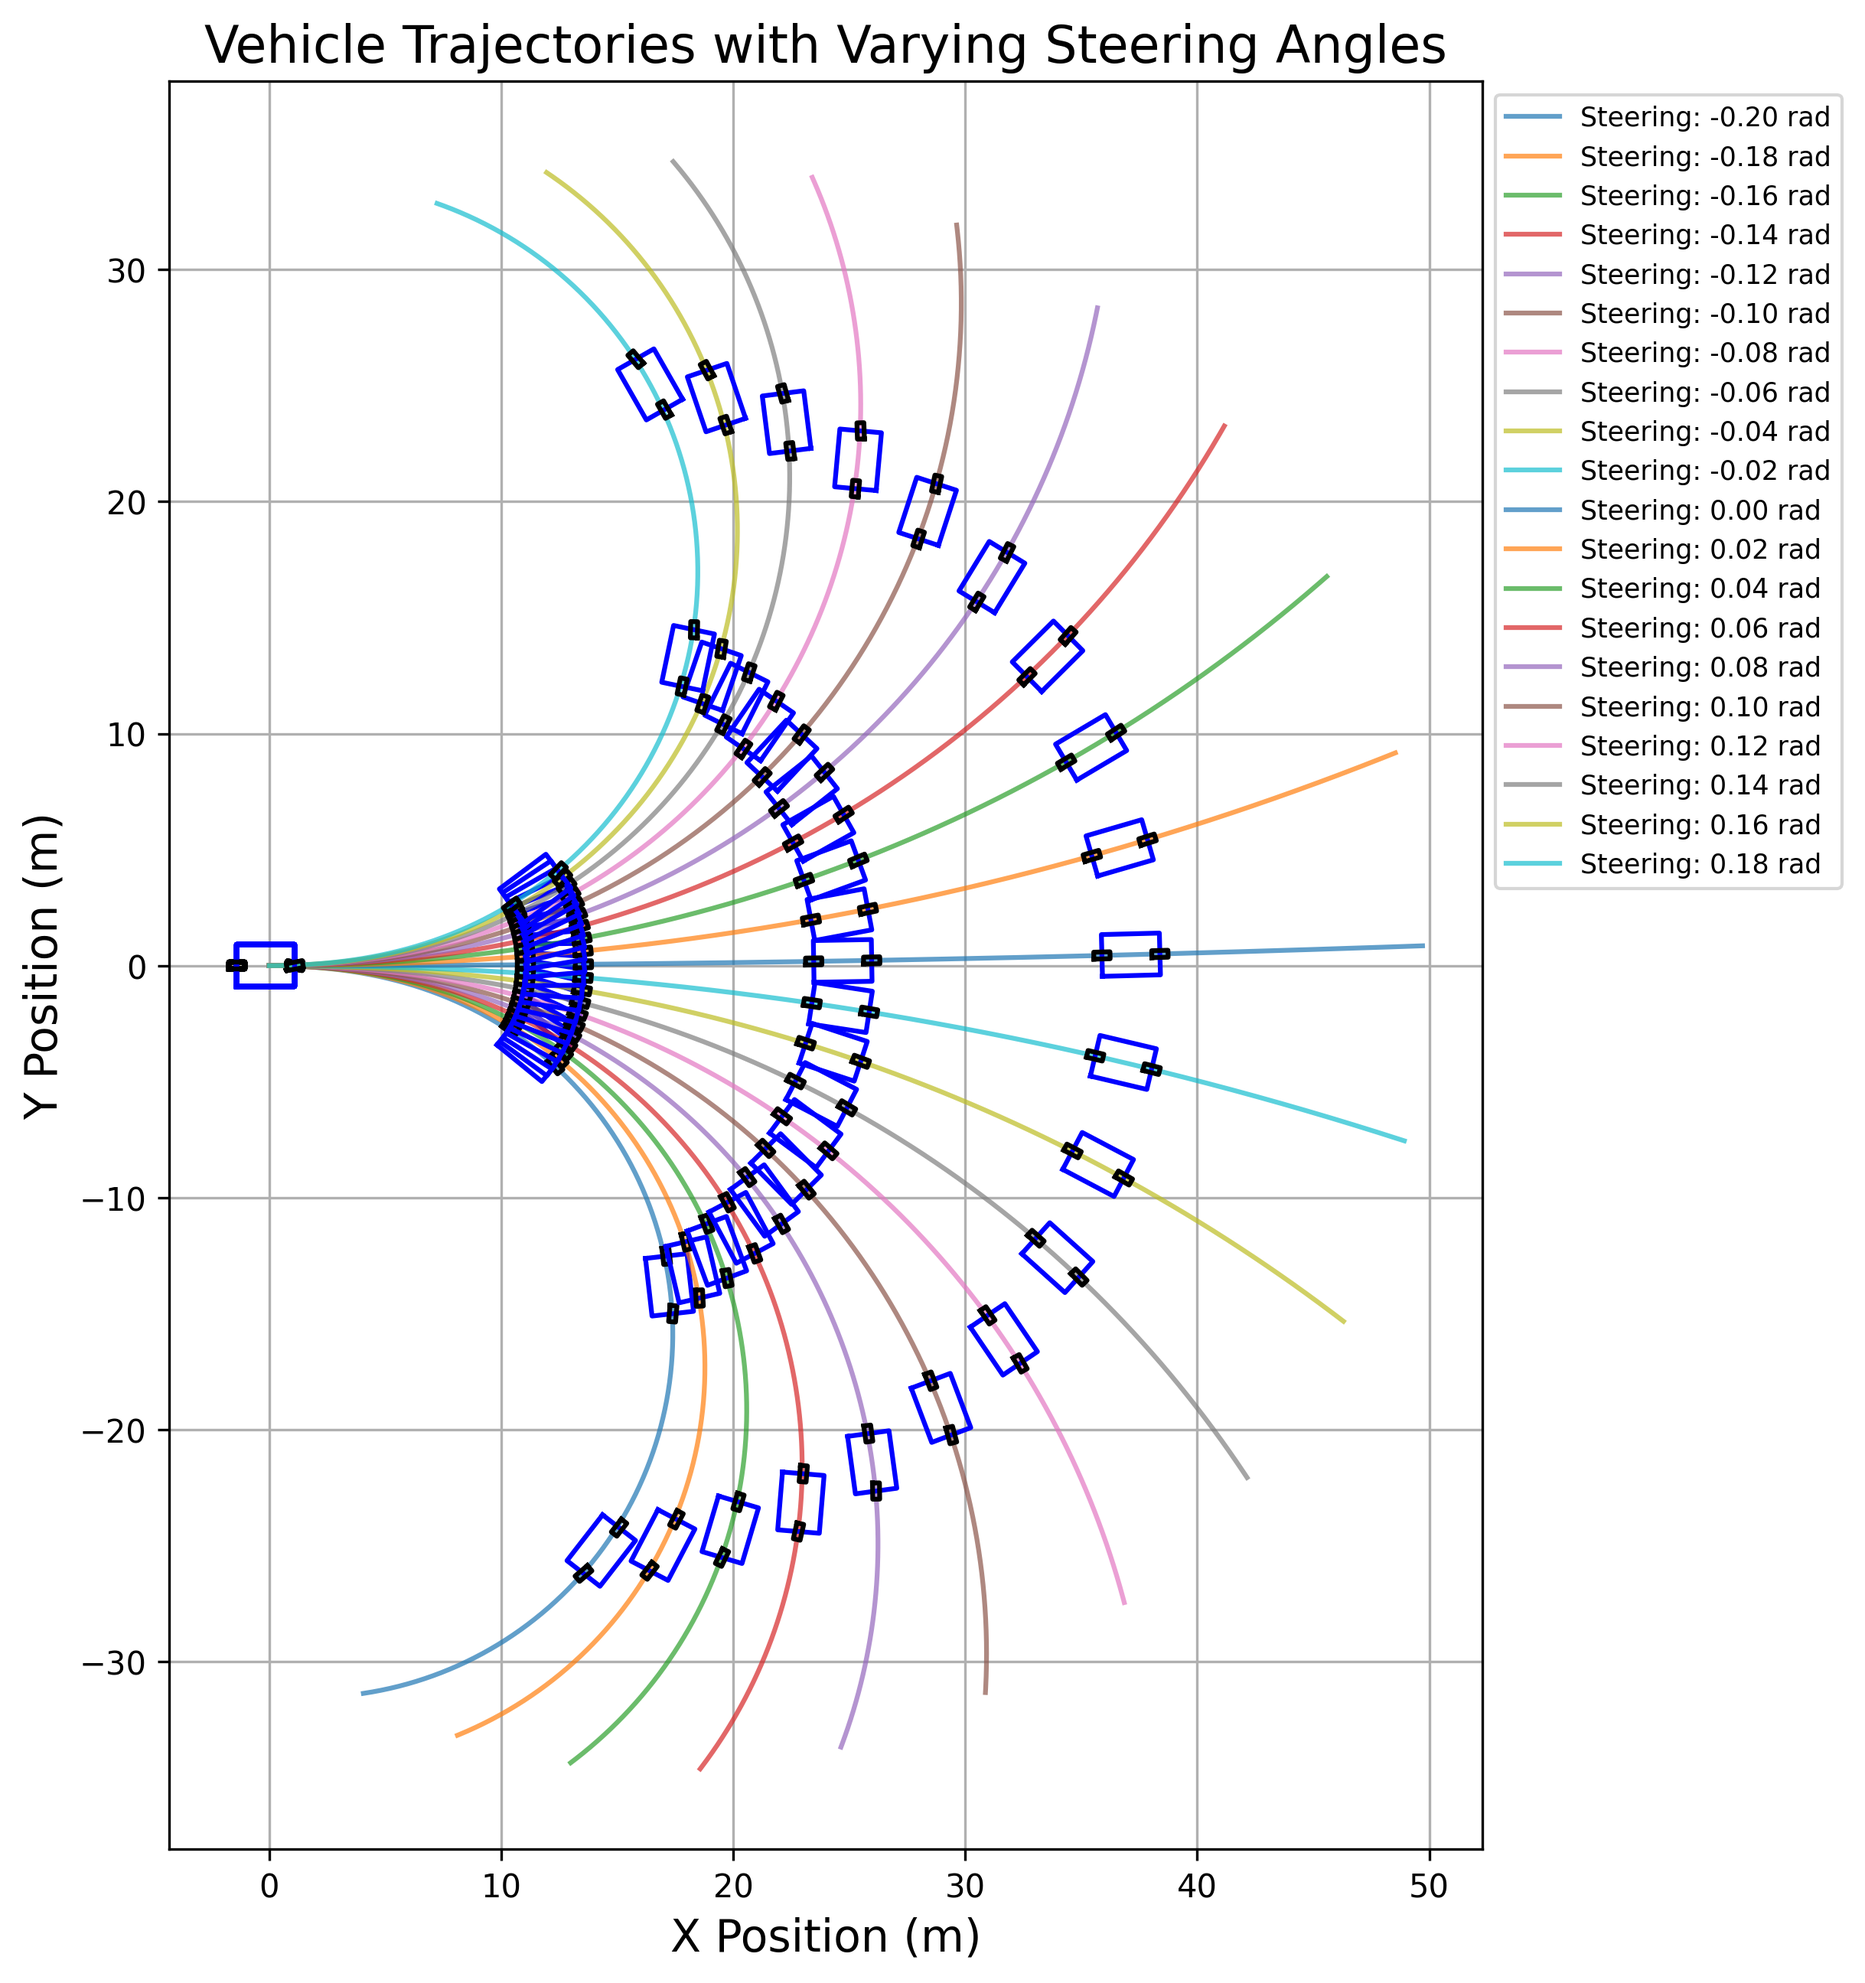
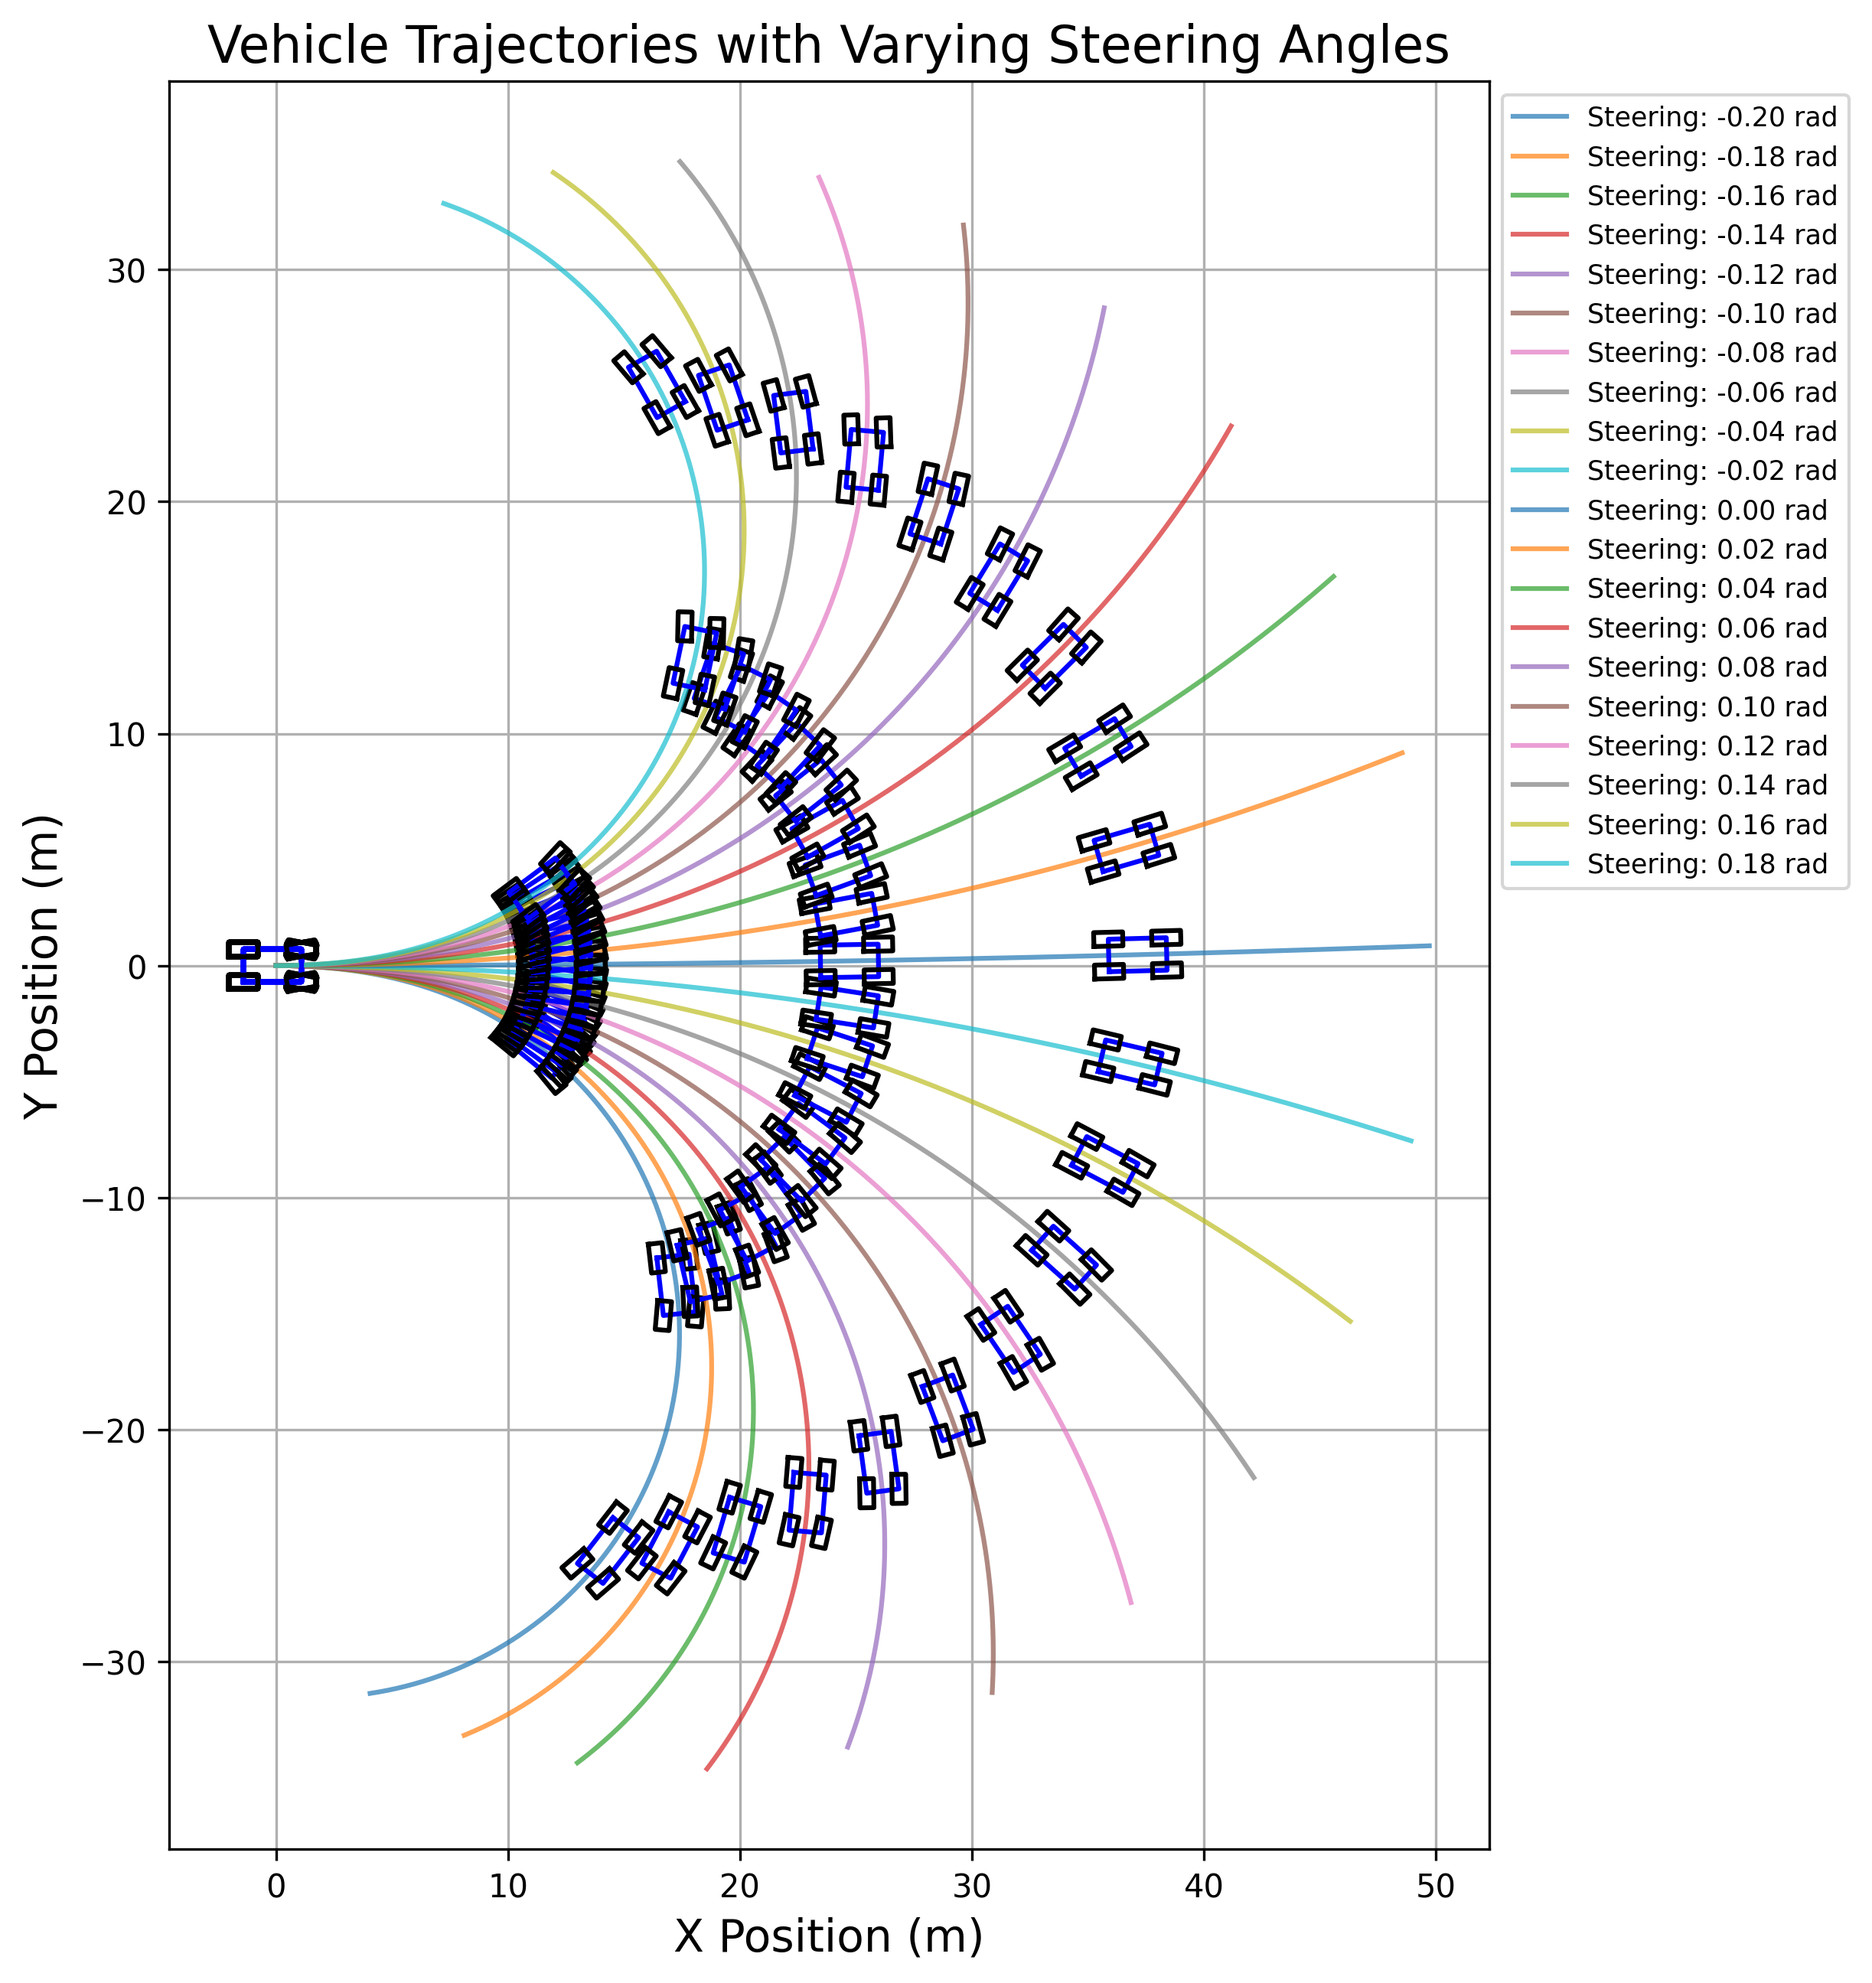
Update vehicle visualization to show 4 wheels instead of 3 rectangles

diff --git a/slipjax/examples/trajectory_plots.py b/slipjax/examples/trajectory_plots.py
@@ -90,23 +90,24 @@ all_trajectories = batch_simulator(base_state, steering_angles)
 # Create directory for saving the plot if it doesn't exist
 os.makedirs('examples', exist_ok=True)
 
-# Function to draw the vehicle as three rectangles
+# Function to draw the vehicle as a body with 4 wheels
 def draw_vehicle(ax, x, y, yaw, steering_angle, vehicle_params, color='blue'):
-    """Draw the vehicle as three rectangles: main body, front tire, and rear tire.
+    """Draw the vehicle as a body rectangle with 4 wheels at each corner.
     
     Args:
         ax: Matplotlib axis to draw on
         x, y: Position of the vehicle center in global coordinates
         yaw: Yaw angle of the vehicle
-        steering_angle: Steering angle of the front tire
+        steering_angle: Steering angle of the front wheels
         vehicle_params: Vehicle parameters including dimensions
         color: Color of the vehicle outline
     """
     # Vehicle dimensions
-    body_length = vehicle_params.front_axle_distance + vehicle_params.rear_axle_distance + 0.5  # Add buffer
-    body_width = 1.8  # Typical car width
-    tire_length = 0.7  # Tire length
-    tire_width = 0.3   # Tire width
+    body_length = vehicle_params.front_axle_distance + vehicle_params.rear_axle_distance  # No buffer
+    body_width = 1.4  # Narrower car width
+    wheel_length = 1.25  # Larger wheel length
+    wheel_width = 0.6  # Larger wheel width
+    track_width = 1.4  # Slightly wider track for wheel positioning
     
     # Calculate coordinates for the vehicle body rectangle in local frame
     body_points = np.array([
@@ -117,17 +118,14 @@ def draw_vehicle(ax, x, y, yaw, steering_angle, vehicle_params, color='blue'):
         [-vehicle_params.rear_axle_distance, -body_width/2]   # back to first point to close the shape
     ])
     
-    # Calculate coordinates for the front tire in local frame
-    front_tire_points = np.array([
-        [-tire_length/2, -tire_width/2],
-        [-tire_length/2, tire_width/2],
-        [tire_length/2, tire_width/2],
-        [tire_length/2, -tire_width/2],
-        [-tire_length/2, -tire_width/2]
+    # Calculate coordinates for a single wheel in local frame
+    wheel_points = np.array([
+        [-wheel_length/2, -wheel_width/2],
+        [-wheel_length/2, wheel_width/2],
+        [wheel_length/2, wheel_width/2],
+        [wheel_length/2, -wheel_width/2],
+        [-wheel_length/2, -wheel_width/2]
     ])
-    
-    # Calculate coordinates for the rear tire in local frame (same dimensions as front)
-    rear_tire_points = front_tire_points.copy()
     
     # Transformation matrix for the vehicle body
     cos_yaw = np.cos(yaw)
@@ -142,43 +140,47 @@ def draw_vehicle(ax, x, y, yaw, steering_angle, vehicle_params, color='blue'):
         # Translate
         transformed_body_points[i] = [x + rotated_x, y + rotated_y]
     
-    # Position of front and rear axles in global coordinates
-    front_axle_x = x + vehicle_params.front_axle_distance * cos_yaw
-    front_axle_y = y + vehicle_params.front_axle_distance * sin_yaw
-    rear_axle_x = x - vehicle_params.rear_axle_distance * cos_yaw
-    rear_axle_y = y - vehicle_params.rear_axle_distance * sin_yaw
+    # Calculate wheel positions in local vehicle coordinates
+    wheel_positions = [
+        # Front left wheel
+        [vehicle_params.front_axle_distance, -track_width/2],
+        # Front right wheel
+        [vehicle_params.front_axle_distance, track_width/2],
+        # Rear left wheel
+        [-vehicle_params.rear_axle_distance, -track_width/2],
+        # Rear right wheel
+        [-vehicle_params.rear_axle_distance, track_width/2]
+    ]
     
-    # Transformation for the front tire (includes steering angle)
-    front_angle = yaw + steering_angle
-    cos_front = np.cos(front_angle)
-    sin_front = np.sin(front_angle)
-    
-    # Transform front tire points to global frame
-    transformed_front_tire_points = np.zeros_like(front_tire_points)
-    for i, point in enumerate(front_tire_points):
-        # Rotate
-        rotated_x = point[0] * cos_front - point[1] * sin_front
-        rotated_y = point[0] * sin_front + point[1] * cos_front
-        # Translate
-        transformed_front_tire_points[i] = [front_axle_x + rotated_x, front_axle_y + rotated_y]
-    
-    # Transformation for the rear tire
-    cos_rear = cos_yaw
-    sin_rear = sin_yaw
-    
-    # Transform rear tire points to global frame
-    transformed_rear_tire_points = np.zeros_like(rear_tire_points)
-    for i, point in enumerate(rear_tire_points):
-        # Rotate
-        rotated_x = point[0] * cos_rear - point[1] * sin_rear
-        rotated_y = point[0] * sin_rear + point[1] * cos_rear
-        # Translate
-        transformed_rear_tire_points[i] = [rear_axle_x + rotated_x, rear_axle_y + rotated_y]
-    
-    # Draw the vehicle parts
+    # Draw the vehicle body
     ax.plot(transformed_body_points[:, 0], transformed_body_points[:, 1], color=color, linewidth=1.5)
-    ax.plot(transformed_front_tire_points[:, 0], transformed_front_tire_points[:, 1], color='black', linewidth=1.5)
-    ax.plot(transformed_rear_tire_points[:, 0], transformed_rear_tire_points[:, 1], color='black', linewidth=1.5)
+    
+    # Draw each wheel
+    for i, wheel_pos in enumerate(wheel_positions):
+        # Transform wheel position to global coordinates
+        wheel_global_x = x + wheel_pos[0] * cos_yaw - wheel_pos[1] * sin_yaw
+        wheel_global_y = y + wheel_pos[0] * sin_yaw + wheel_pos[1] * cos_yaw
+        
+        # Apply steering angle for front wheels (index 0 and 1)
+        if i < 2:  # Front wheels
+            wheel_angle = yaw + steering_angle
+        else:  # Rear wheels
+            wheel_angle = yaw
+            
+        cos_wheel = np.cos(wheel_angle)
+        sin_wheel = np.sin(wheel_angle)
+        
+        # Transform wheel points to global frame
+        transformed_wheel_points = np.zeros_like(wheel_points)
+        for j, point in enumerate(wheel_points):
+            # Rotate by the wheel angle
+            rotated_x = point[0] * cos_wheel - point[1] * sin_wheel
+            rotated_y = point[0] * sin_wheel + point[1] * cos_wheel
+            # Translate to wheel position
+            transformed_wheel_points[j] = [wheel_global_x + rotated_x, wheel_global_y + rotated_y]
+        
+        # Draw the wheel
+        ax.plot(transformed_wheel_points[:, 0], transformed_wheel_points[:, 1], color='black', linewidth=1.5)
 
 # Plot the trajectories - use subset to avoid overcrowding
 fig, ax = plt.subplots(figsize=(12, 10))
